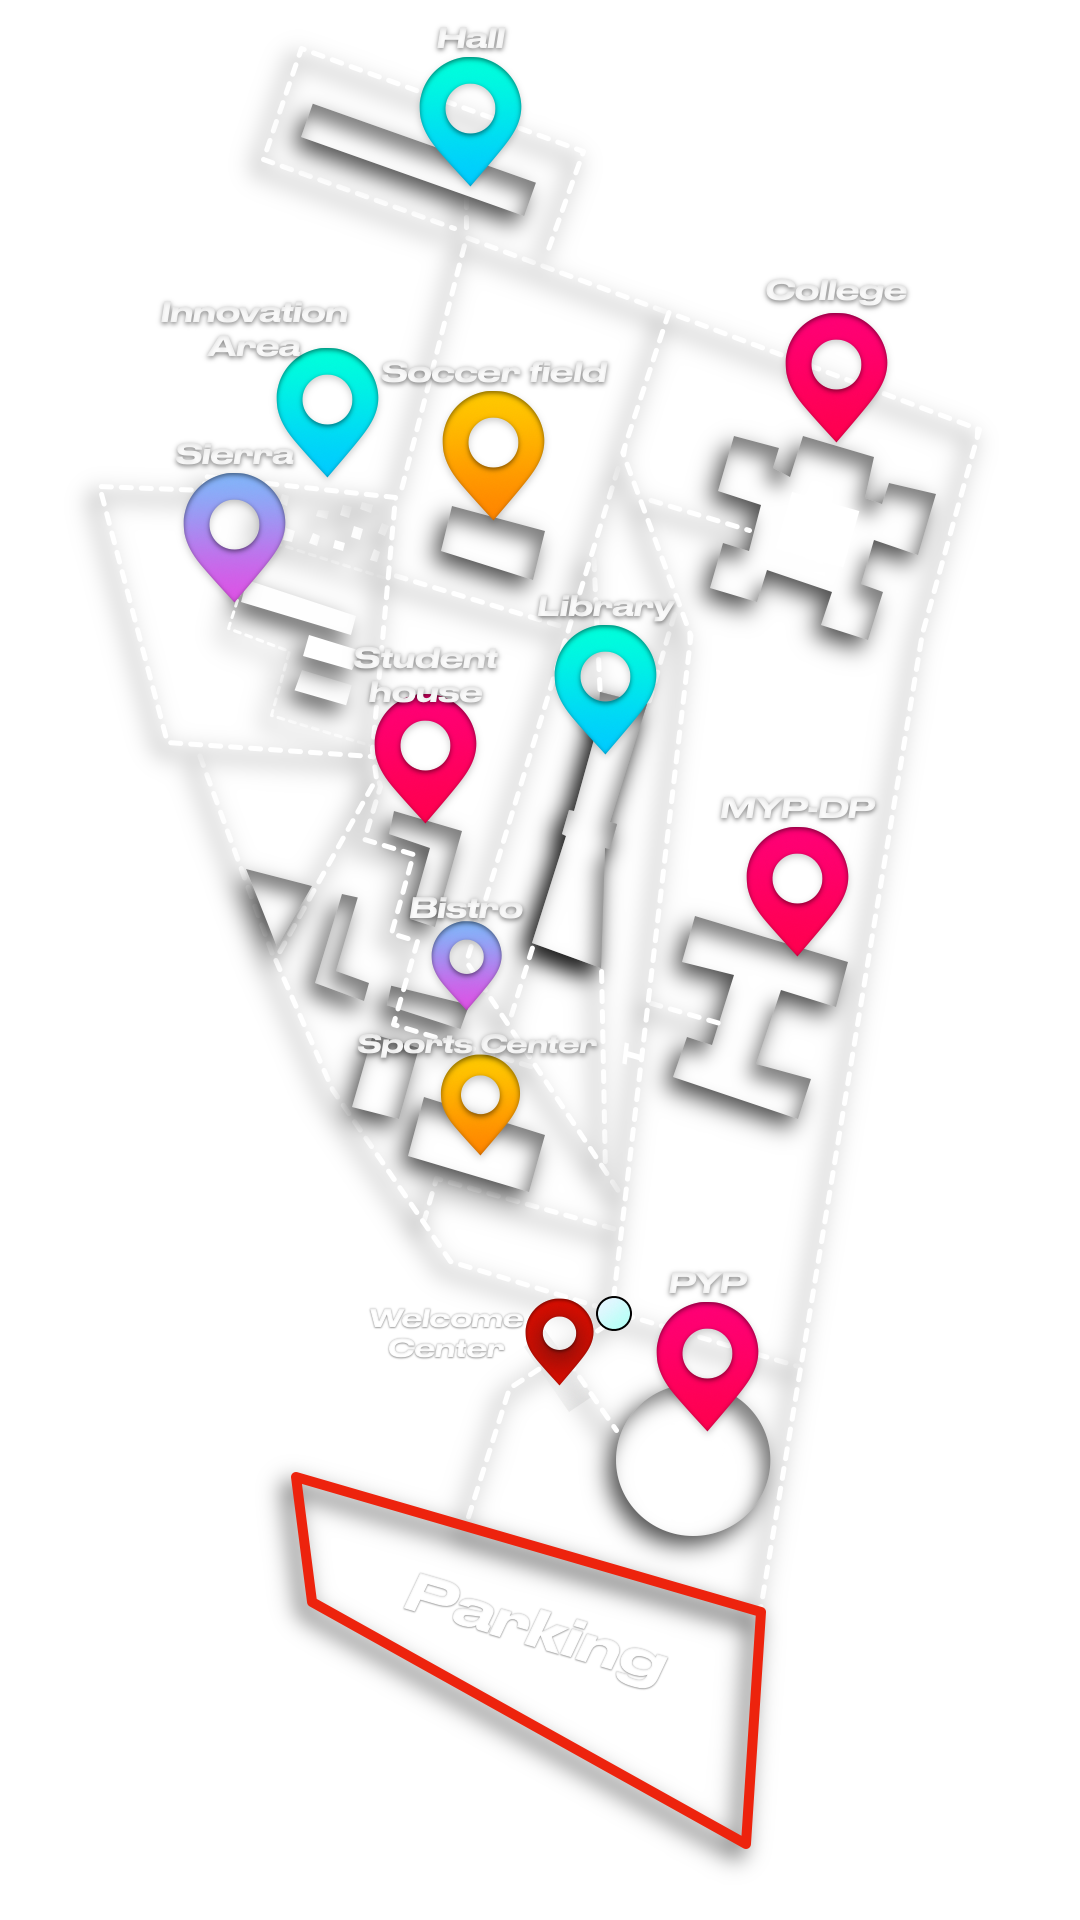
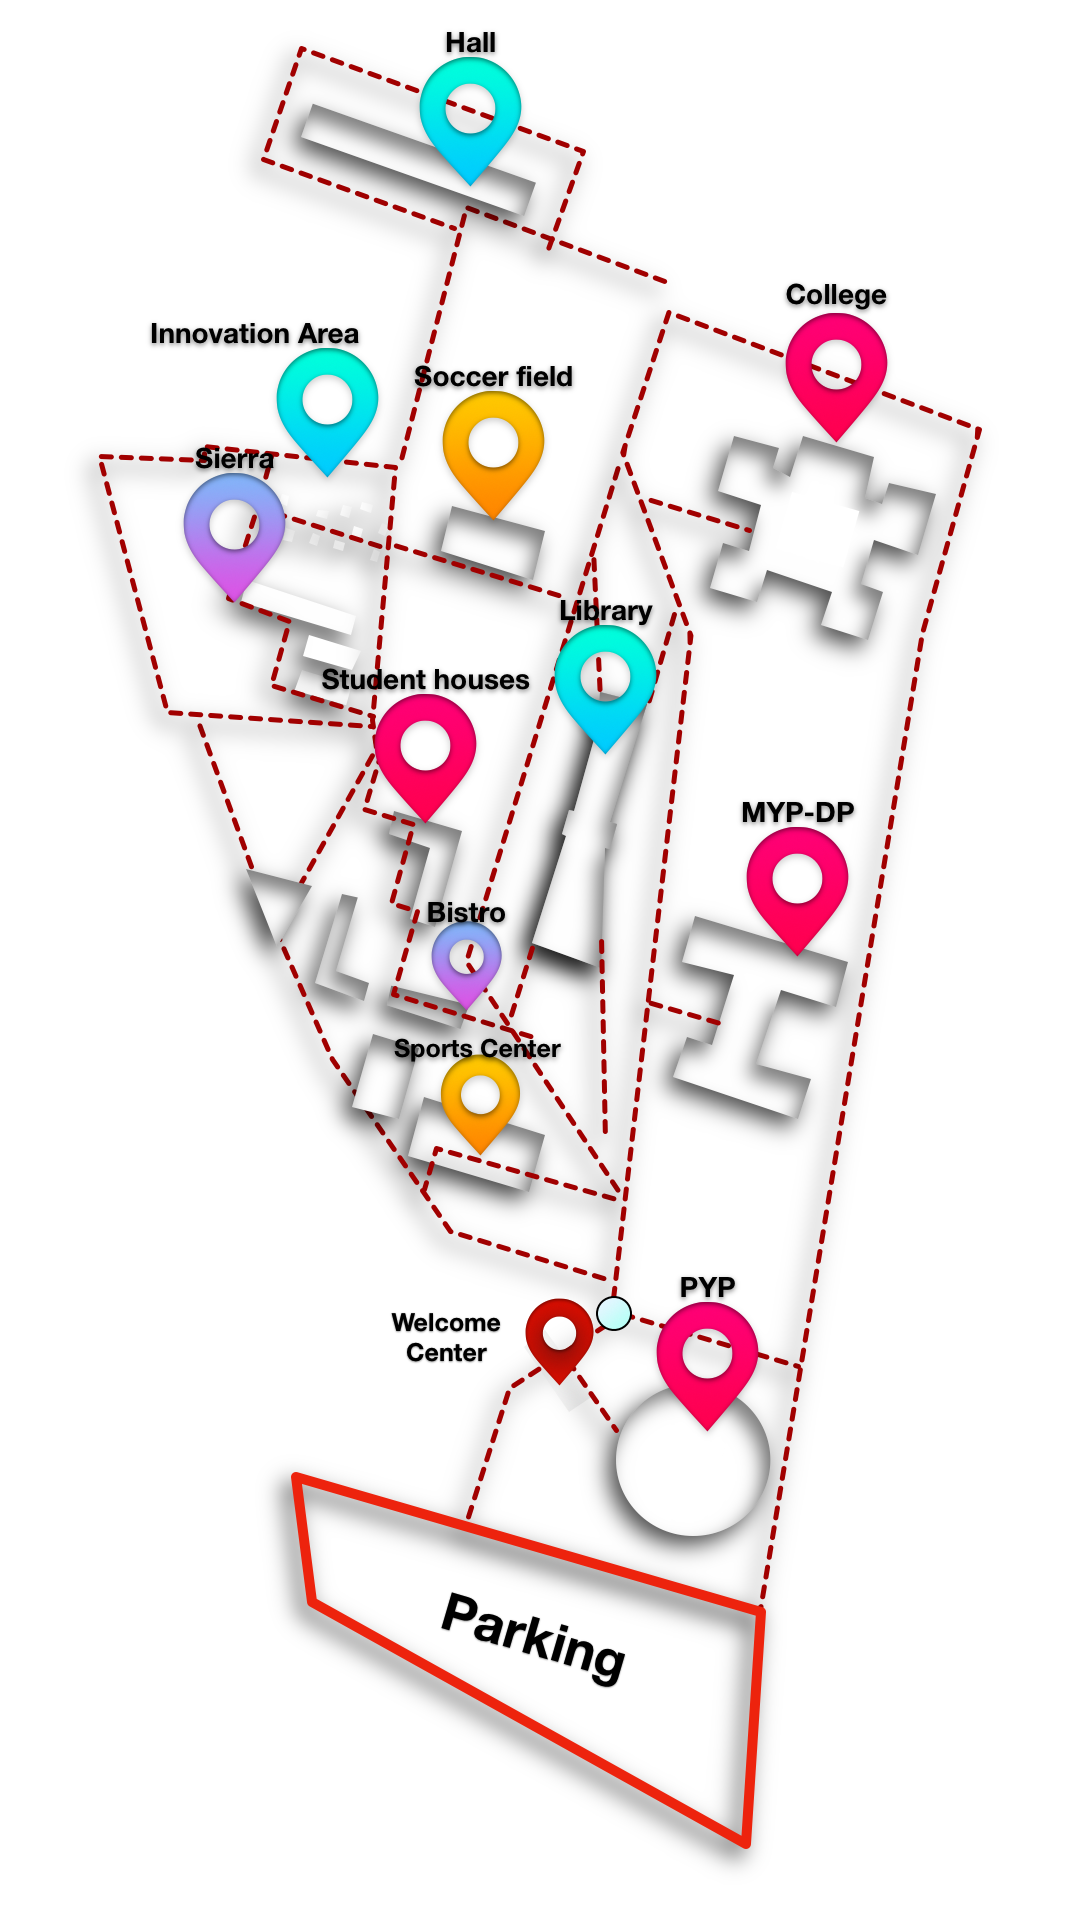
0.2.7 - Background is now white becuase yes.

diff --git a/pages/map.html b/pages/map.html
@@ -27,7 +27,7 @@
           <img src="../assets/map.png" width="100%" alt="Map of the campus" usemap="#campus-map" id="campus-map-photo">
           
           <map name="campus-map" id="campus-map">
-              <area onclick="getDirections(1, 'myp')" href="#directions" alt="myp-dp" title="myp-dp" coords="659,1125,885,823" shape="rect">
+              <area onclick="getDirections(1, 'myp')" href="./tours/myp.html" alt="myp-dp" title="myp-dp" coords="659,1125,885,823" shape="rect">
               <area onclick="getDirections(1, 'pyp')" href="#directions" alt="pyp" title="pyp" coords="714,1421,135" shape="circle">
               <area onclick="getDirections(1, 'college')" href="#directions" alt="college" title="college" coords="695,379,976,646" shape="rect">
               <area onclick="getDirections(1, 'student-house')" href="#directions" alt="student-house" title="student-house" coords="316,990,368,802,384,728,496,758,443,970,370,1009" shape="poly">
@@ -47,9 +47,9 @@
 
       <section id="directions">
         <div id="directions-text">
-          <h2 id="directions-text-h2" style="color: white;">Select your Destination</h2>
+          <h2 id="directions-text-h2" style="color: black;">Select your Destination</h2>
         </div>
-        <ol id="list" style="color: white;"></ol>
+        <ol id="list" style="color: black;"></ol>
       </section>
     </div>
 
@@ -57,7 +57,7 @@
     <section id="iframe" style="position: relative" scrolling="no">
       
     </section>
-    <div style="color: white;">
+    <div style="color: black;">
       <li><div class="square-gradient" style="background-image: linear-gradient(to right, #FF004F, #FF0075)"></div> Schools📚</li>
       <li><div class="square-gradient" style="background-image: linear-gradient(to right, #FF8500, #FFC900)"></div> Sports🏋</li>
       <li><div class="square-gradient" style="background-image: linear-gradient(to right, #00CBFF, #00FFDB)"></div> Convention🎤</li>

diff --git a/styles/styles.css b/styles/styles.css
@@ -1,6 +1,6 @@
 body {
     padding: 1.5em;
-    background: #161616;
+    background: white;
 }
 
 .menu {
@@ -55,7 +55,7 @@ body {
     padding: 12px;
     background-color: transparent;
     border: none;
-    color: white;
+    color: rgb(255, 255, 255);
     font-size: large;
 }
 
@@ -74,7 +74,7 @@ body {
     top: 90%;
     left: 50%;
     margin: -35px 0 0 -35px;
-    color: white;
+    color: rgb(90, 90, 90);
 }
 
 .bi {
@@ -191,11 +191,11 @@ hr {
 }
 
 #directions-text {
-    color: white;
+    color: black;
 }
 
 p {
-    color: white;
+    color: black;
 }
 
 .card-title {
@@ -250,7 +250,7 @@ iframe {
 }
 
 .navbar-expand-md.navigation {
-    background-color: #252525;
+    background-color: rgb(189, 189, 189);
     box-shadow: 0 10px 20px -10px rgba(0, 0, 0, 0.5);
     height: 4.5rem;
 }
@@ -267,7 +267,7 @@ iframe {
 
   .list-group-item:hover {
     box-shadow: 0 10px 20px -10px rgba(87, 87, 87, 0.5);
-    color: white;
+    color: black;
     text-shadow: 2px 5px 10px #0000007c;
     -webkit-transform: scale(1.02);
     transform: scale(1.02);
